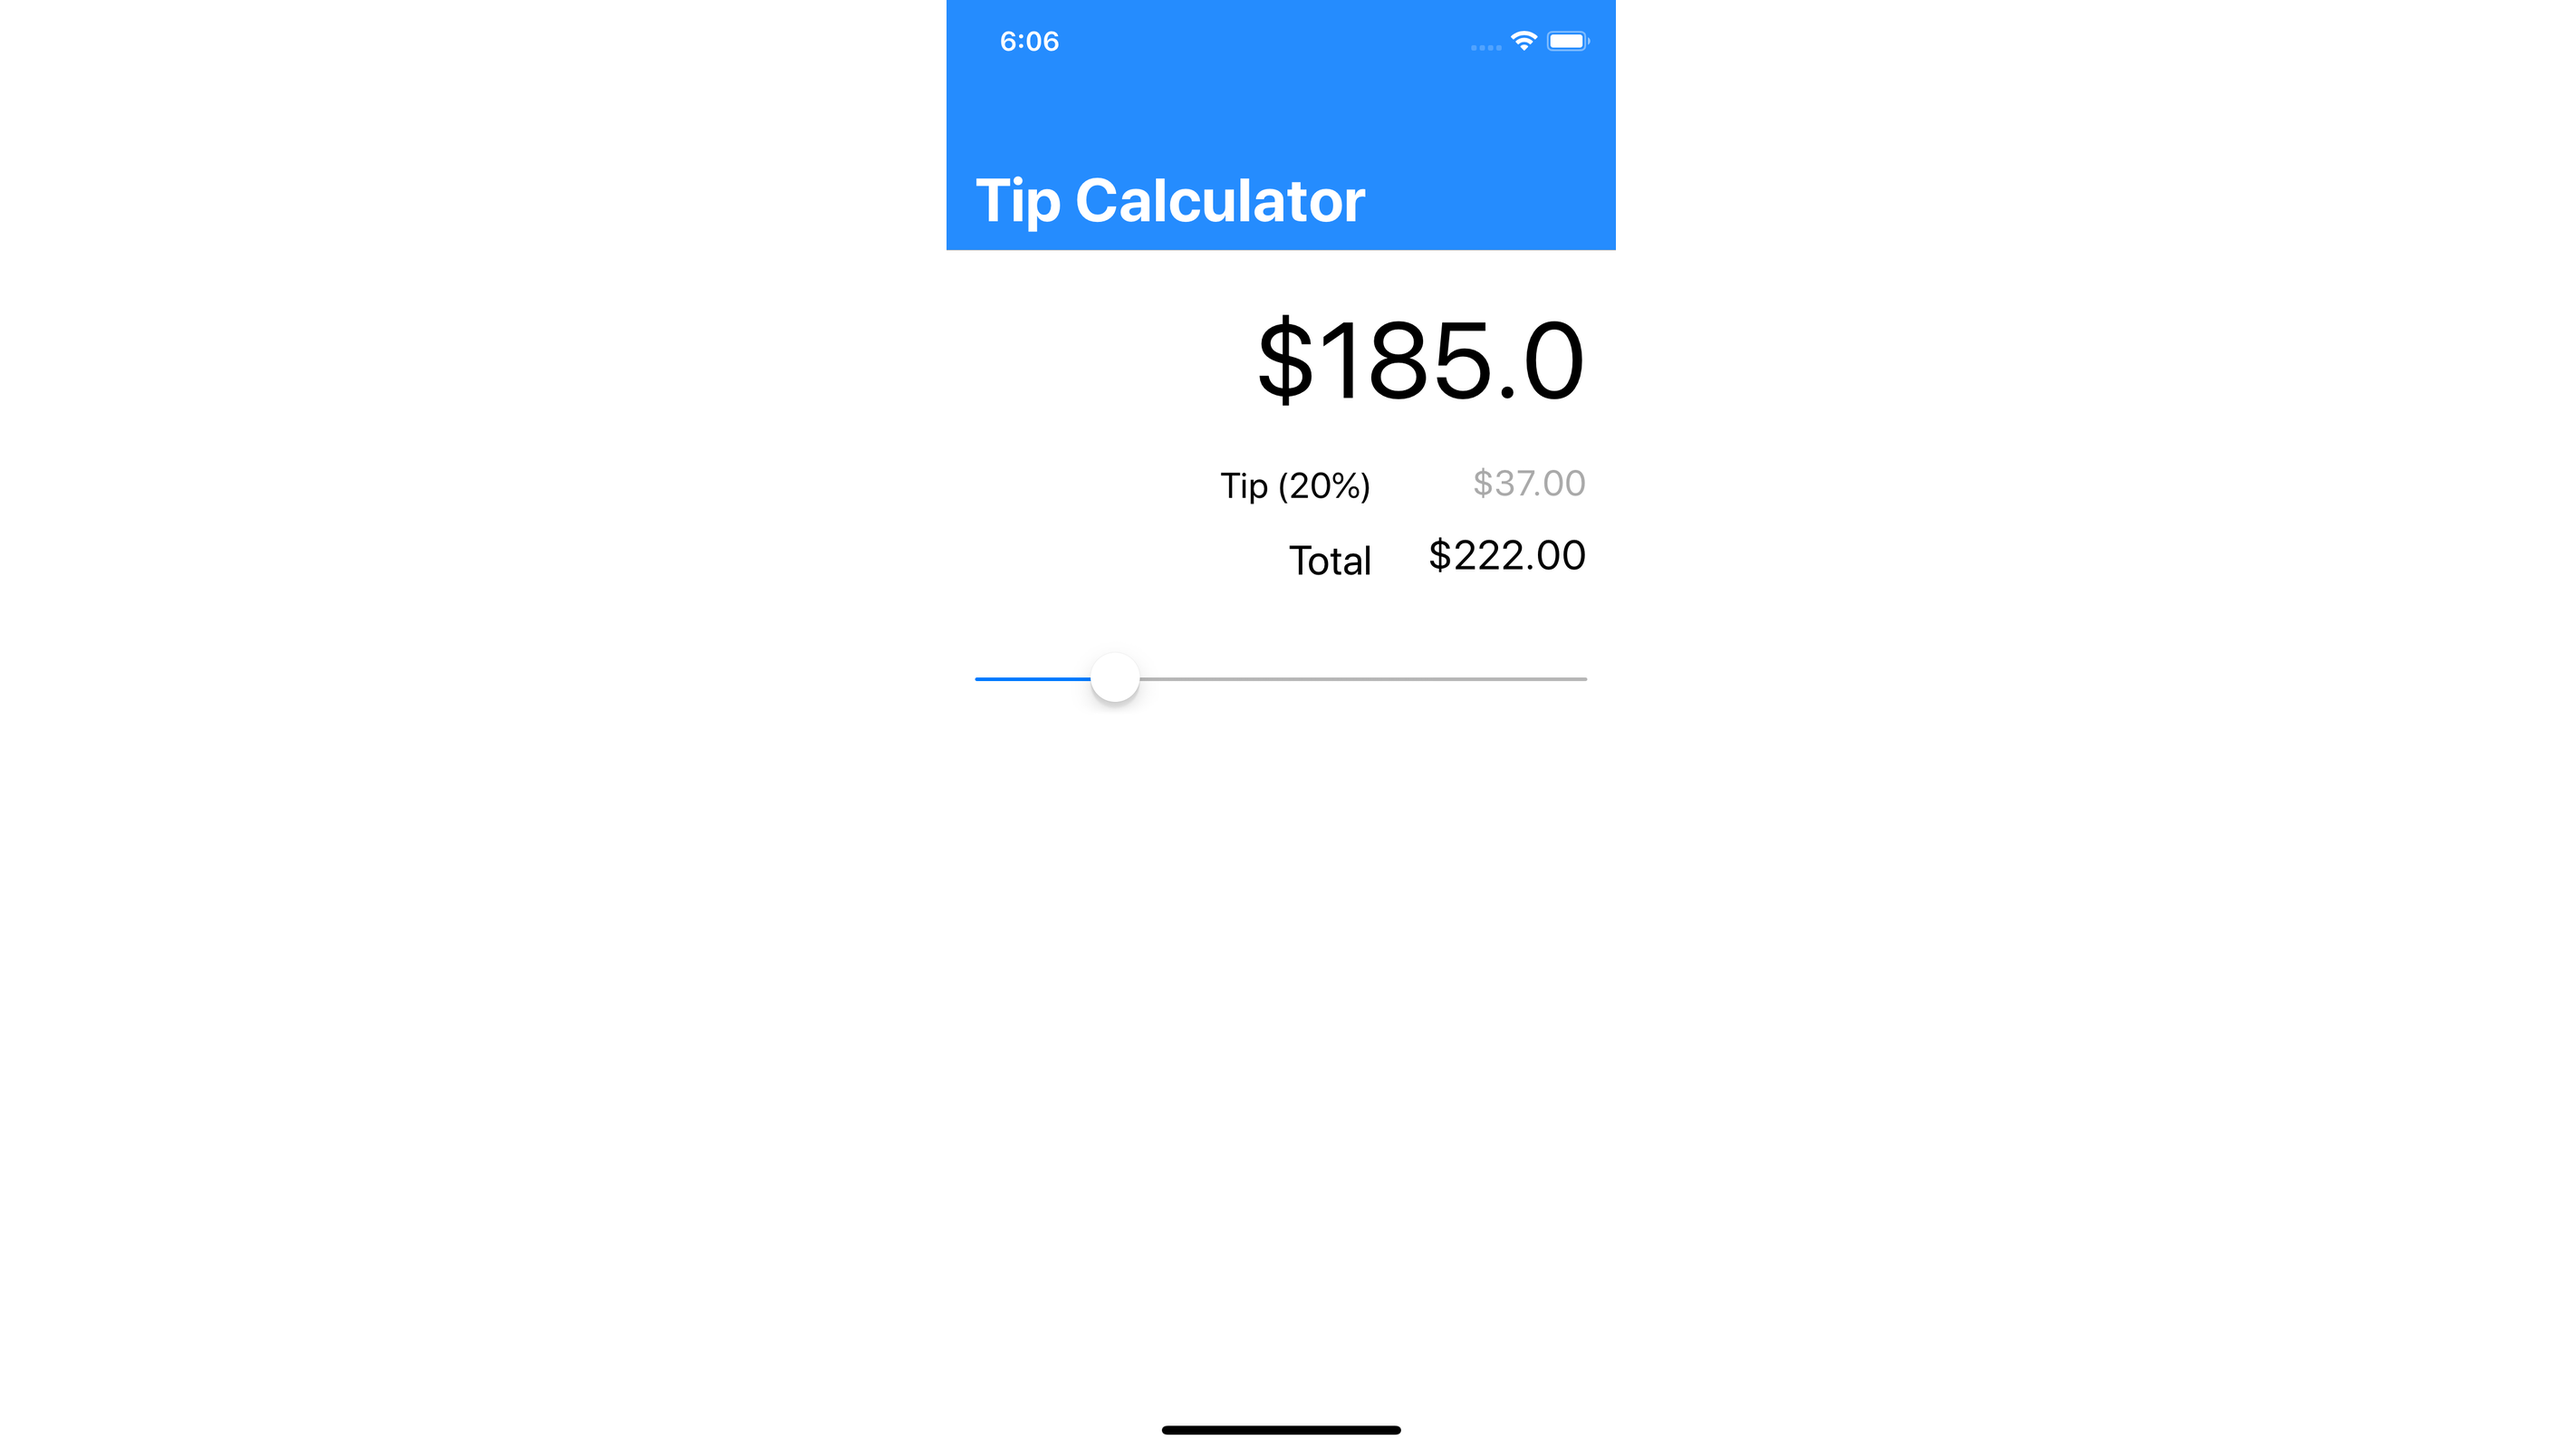
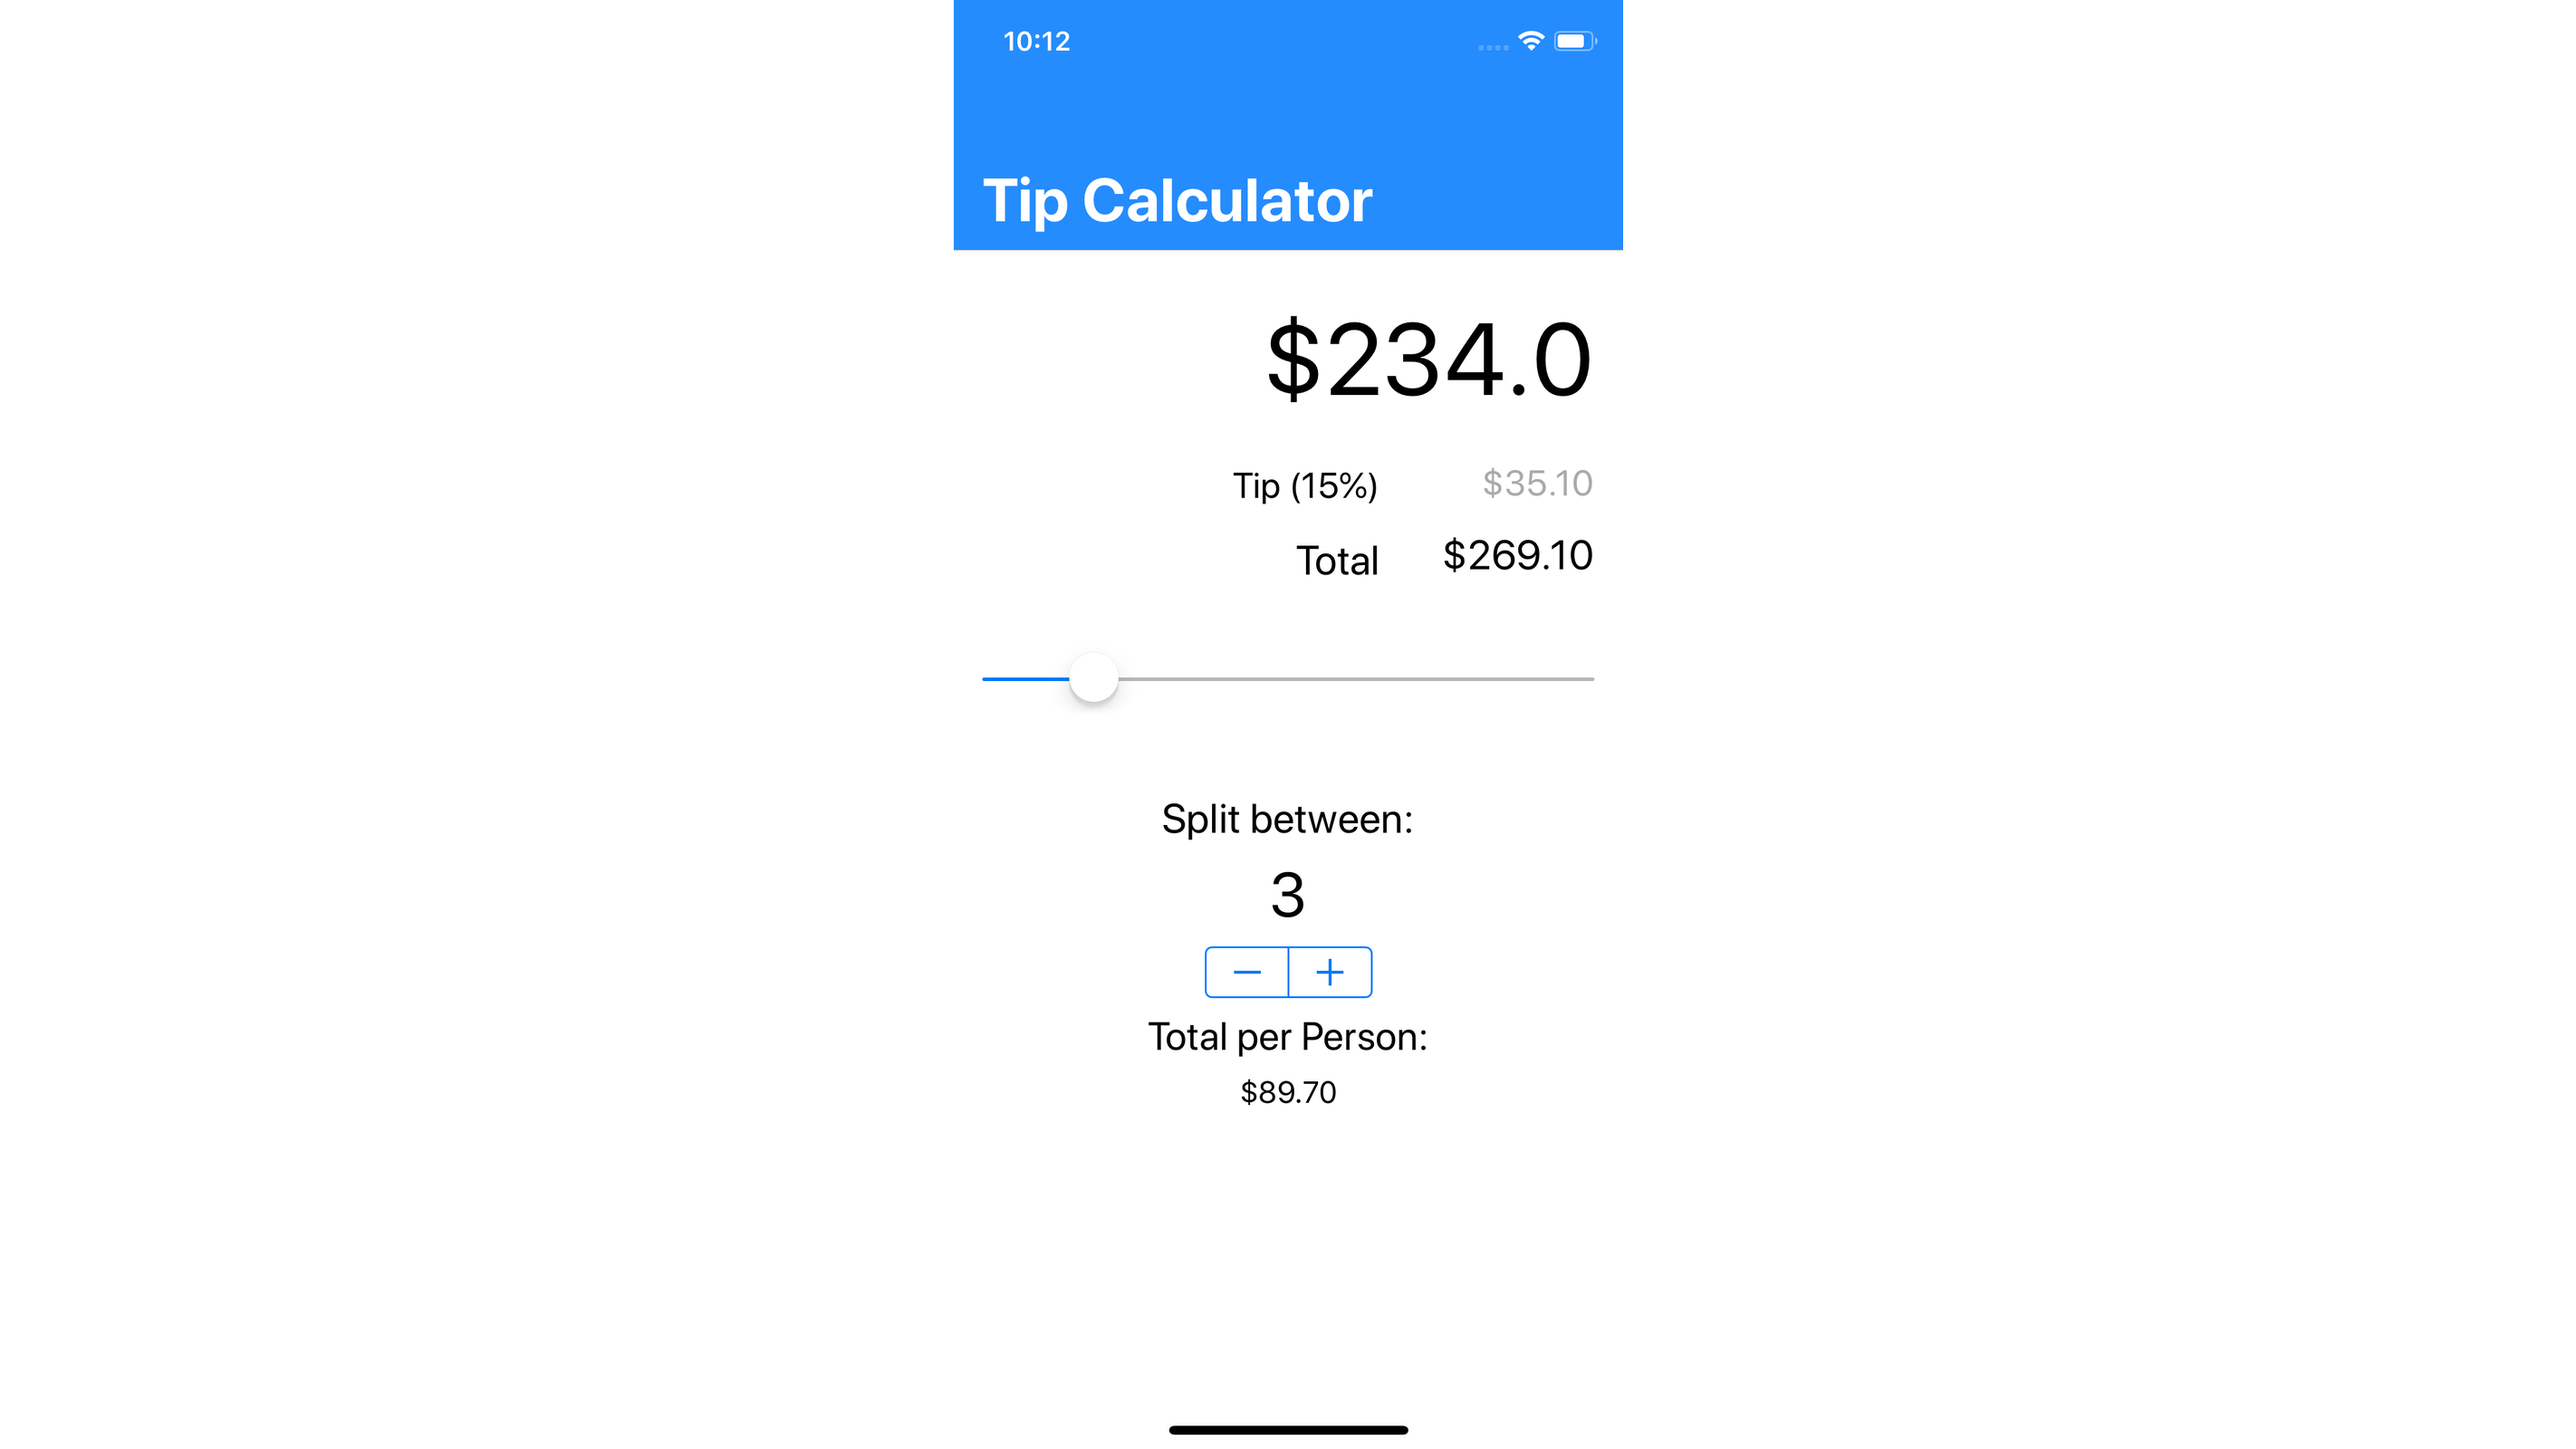
Update README.md

diff --git a/README.md b/README.md
@@ -3,6 +3,10 @@
 
 ![](header.png)
 
+## Features
+* Select the percentage of tip you want
+* Divide the bill with others
+
 ## Meta
 
 Tobias Ruano – [@tobiasruano](https://twitter.com/tobiasruano) – truano@uade.edu.ar
